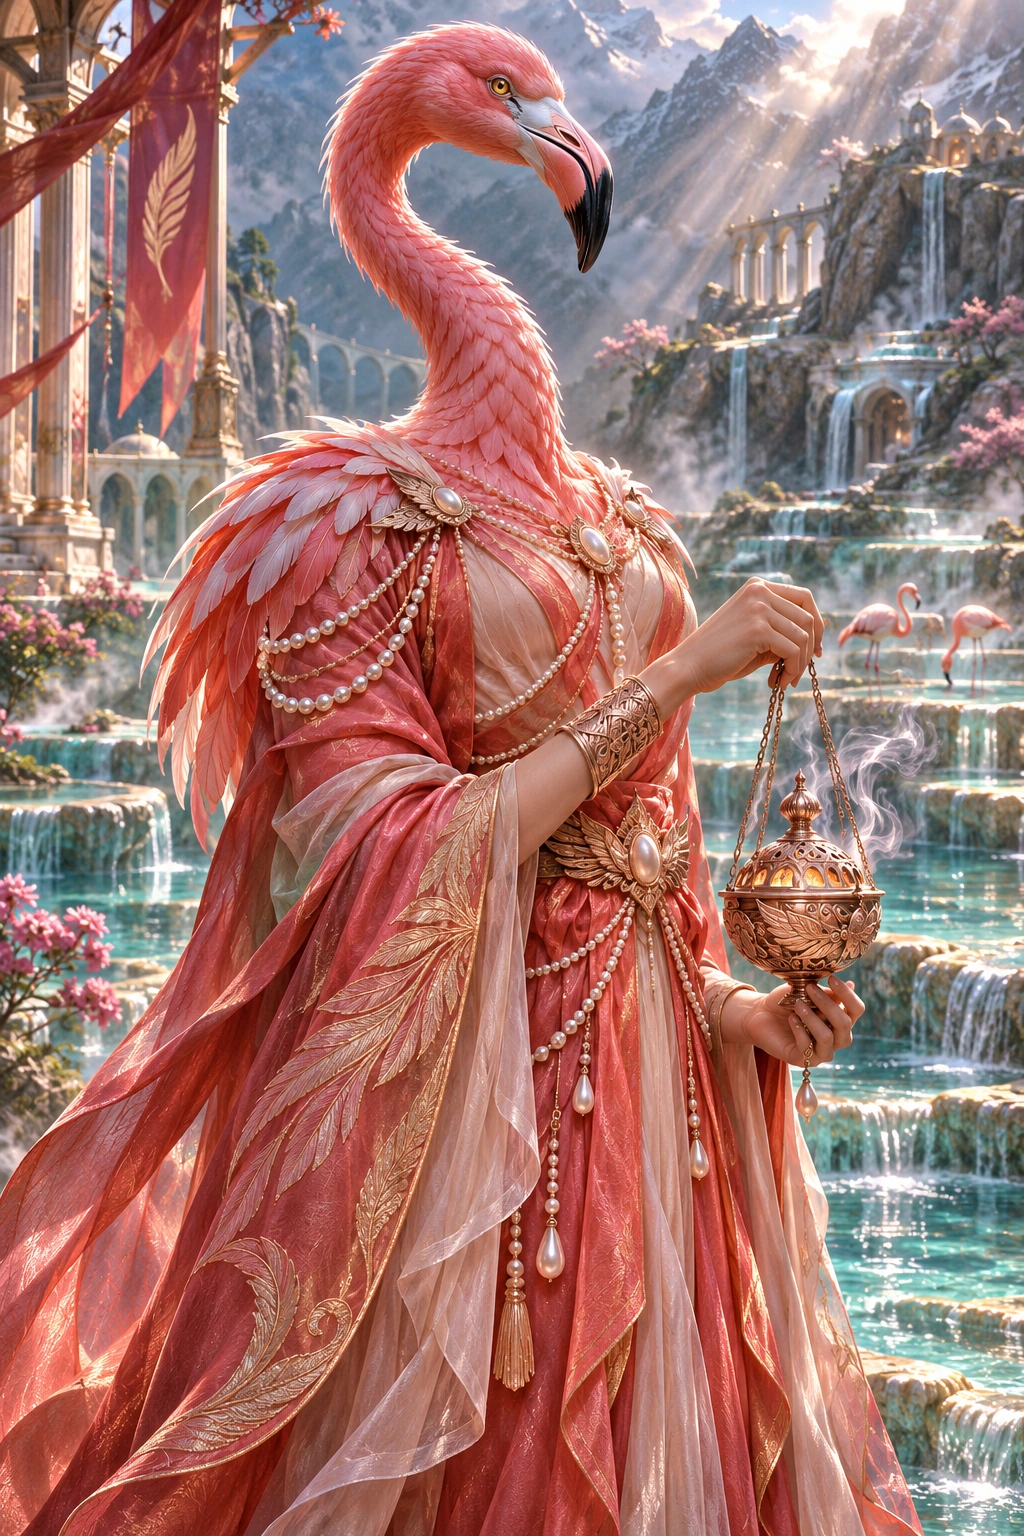
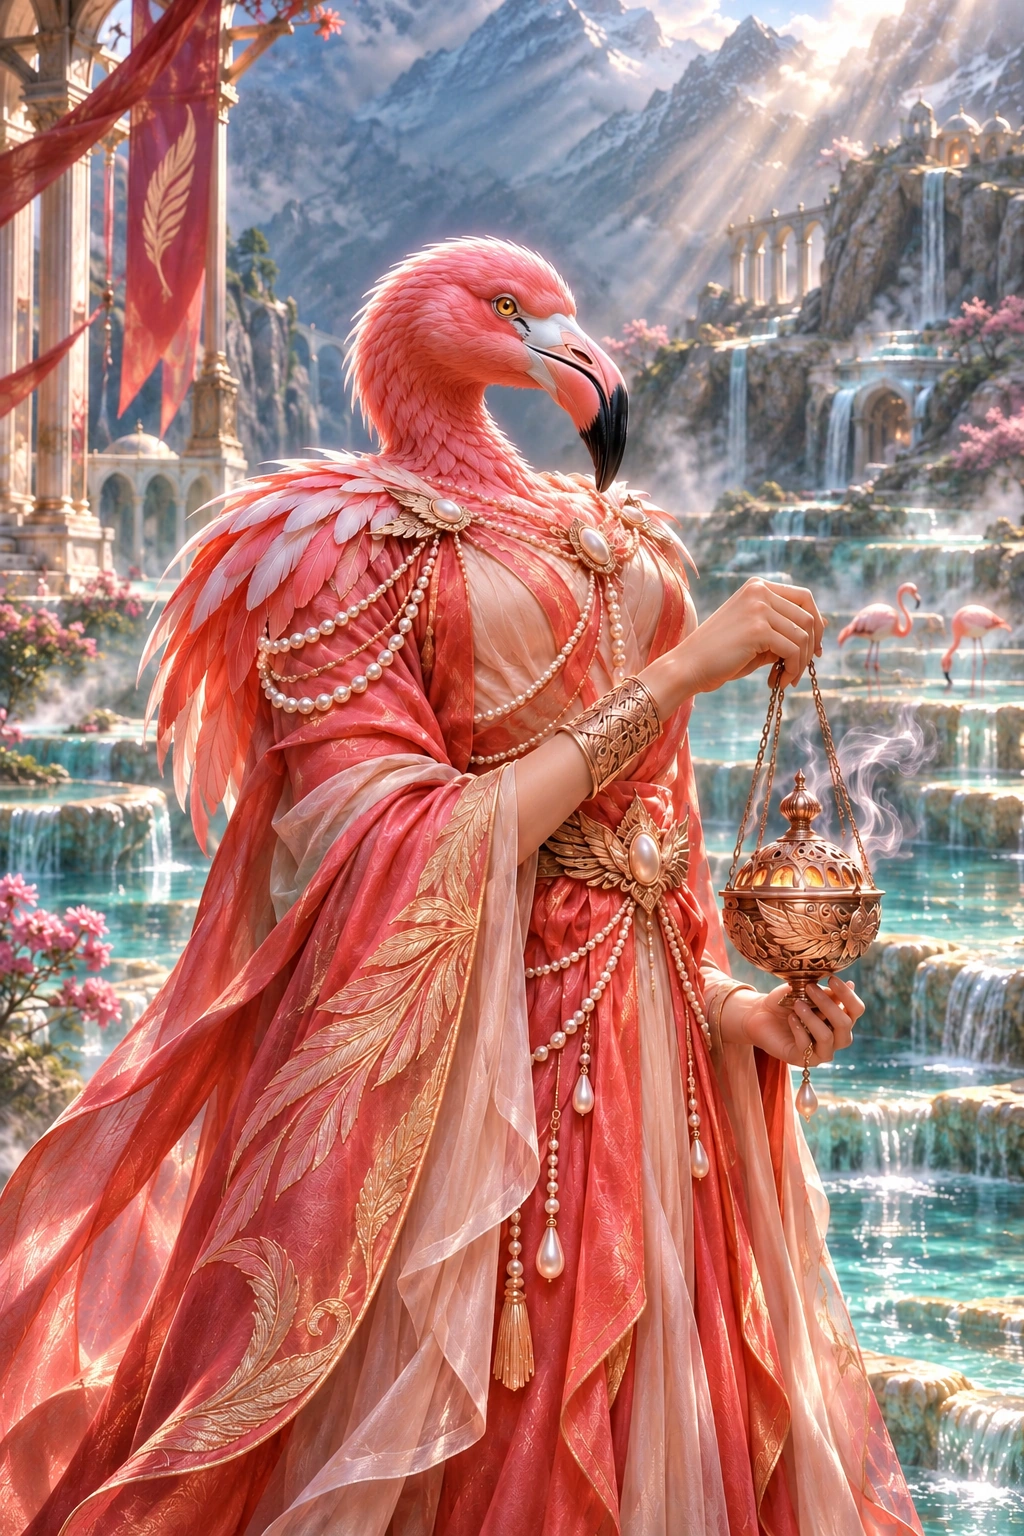
Revise eight Aerie Court portraits and redesign guardian beasts

diff --git a/docs/AERIE_COURT.md b/docs/AERIE_COURT.md
@@ -1,6 +1,6 @@
 # Aerie Court — Founding Roster
 
-A mountain civilization of bird-people: humanoid bodies below the shoulders, avian heads and necks above. Bronze featherwork, high palaces and richly colored plumage unite the faction without replacing each species’ identity. The pterosaur and twin-headed guardian are ancient branches of the court. Trivorath, its sole Mythical, combines eagle, lion and serpent heads on one humanoid body.
+A mountain civilization of bird-people: most have humanoid bodies below the shoulders, with compact avian heads and necks above. Bronze featherwork, high palaces and richly colored plumage unite the faction without replacing each species’ identity. The pterosaur and twin-headed guardian are ancient branches of the court. Duovrax is a two-headed owl/raven monster-beast. Trivorath, its sole Mythical, combines an eagle head, a horned monster-beast head and a serpent head on one massive quadrupedal body.
 
 Eighteen additions bring the roster from 215 to 233. The rarity spread is 2 Common, 7 Rare, 8 Legendary and 1 Mythical, alongside 10 Attack, 4 Defense and 4 Support champions. All five elements and Very Fast, Fast, Average and Slow speeds are represented. Existing 215 champion/source records, portraits and summon rarity odds are unchanged.
 
@@ -24,20 +24,24 @@ Two matching members gain **4% DEF and 5% extra matching-rune mana**. Three or m
 | Avaroc, Sunspire Regent | eagle | Legendary | Yellow | Attack | 10 tiles | Sovereign Talon |
 | Macalisse, Scarlet Herald | scarlet macaw | Legendary | Red | Support | 8 tiles | Banner of Many Voices |
 | Pterovar, Ashcrest Ancestor | pterodactyl | Legendary | Red | Attack | 12 tiles | Cinderwing Descent |
-| Duovrax, Divided Vigil | two-headed owl and raven | Legendary | Purple | Defense | 12 tiles | Dusk and Dawn Watch |
+| Duovrax, Divided Vigil | two-headed owl and raven monster-beast | Legendary | Purple | Defense | 12 tiles | Dusk and Dawn Watch |
 | Tyssara, Moonvault Oracle | barn owl | Legendary | Blue | Support | 10 tiles | Lantern of Quiet Skies |
 | Rudavain, Torrent Lancer | ruddy kingfisher | Legendary | Red | Attack | 8 tiles | Waterfall Impale |
 | Bucorath, Canopy Castellan | great hornbill | Legendary | Green | Defense | 10 tiles | Casque of the Citadel |
 | Sagivra, Quillblade Marshal | secretarybird | Legendary | Yellow | Attack | 8 tiles | Seven-Quill Cut |
-| Trivorath, Threefold Sovereign | three-headed eagle lion serpent hybrid | Mythical | Purple | Attack | 12 tiles | Concord of Fang and Feather |
+| Trivorath, Threefold Sovereign | three-headed eagle / horned monster-beast / serpent | Mythical | Purple | Attack | 12 tiles | Concord of Fang and Feather |
 
 ## Balance and artwork
 
 Base ATK, DEF and HP sit within 3% of the existing median for each rarity/type, with speed and coverage controlling Special budgets. Fast attacks trade utility or damage for access; area attacks are Slow; Common kits are simpler. Trivorath has Slow area damage, Attack Down and Poison, plus Poison immunity. This is a bounded initial balance pass, not a measured PvP win-rate claim.
 
-Each of the eighteen portraits was generated individually at native **1024 × 1536** and encoded as quality-95 WebP without cropping or upscaling. All were visually reviewed, including the separate heads on Duovrax and Trivorath. Existing art is untouched.
+Each of the eighteen portraits was generated individually at native **1024 × 1536** and encoded as quality-95 WebP without cropping or upscaling. All were visually reviewed, including the separate heads on Duovrax and Trivorath. The 215 pre-faction portraits are untouched.
 
 The shared Collection/Codex/Teams filter derives factions from the roster; Aerie Court therefore appears automatically. Its emblem is registered, and the Guide and team composition displays use the shared faction rules.
+
+## Artwork revisions
+
+Tivren and Dovessa have replacement portraits with compact, integrated avian heads. Duovrax and Trivorath have monster-beast bodies; Trivorath’s former lion head is a horned monstrous beast. Rosavelle, Ardoven, Sagivra and Macalisse retain their established costumes, props and settings with shorter necks. All eight revisions retain native high-definition dimensions and quality-95 WebP encoding. Champion kits, stats, rarities and faction bonuses are unchanged.
 
 ## Validation
 

diff --git a/docs/CHARACTER_BALANCE_REVIEW.md b/docs/CHARACTER_BALANCE_REVIEW.md
@@ -124,12 +124,12 @@ Veldtborn’s 30% and Astral’s 25% matching mana substantially alter repeat sp
 | Avaroc, Sunspire Regent | Aerie Court / Yellow | Legendary / Attack / Average | Founding eagle attack; role/rarity median stats with a bounded existing-effect kit. |
 | Macalisse, Scarlet Herald | Aerie Court / Red | Legendary / Support / Fast | Founding scarlet macaw support; role/rarity median stats with a bounded existing-effect kit. |
 | Pterovar, Ashcrest Ancestor | Aerie Court / Red | Legendary / Attack / Slow | Founding pterodactyl attack; role/rarity median stats with a bounded existing-effect kit. |
-| Duovrax, Divided Vigil | Aerie Court / Purple | Legendary / Defense / Slow | Founding two-headed owl and raven defense; role/rarity median stats with a bounded existing-effect kit. |
+| Duovrax, Divided Vigil | Aerie Court / Purple | Legendary / Defense / Slow | Founding two-headed owl and raven monster-beast defense; role/rarity median stats with a bounded existing-effect kit. |
 | Tyssara, Moonvault Oracle | Aerie Court / Blue | Legendary / Support / Average | Founding barn owl support; role/rarity median stats with a bounded existing-effect kit. |
 | Rudavain, Torrent Lancer | Aerie Court / Red | Legendary / Attack / Fast | Founding ruddy kingfisher attack; role/rarity median stats with a bounded existing-effect kit. |
 | Bucorath, Canopy Castellan | Aerie Court / Green | Legendary / Defense / Average | Founding great hornbill defense; role/rarity median stats with a bounded existing-effect kit. |
 | Sagivra, Quillblade Marshal | Aerie Court / Yellow | Legendary / Attack / Fast | Founding secretarybird attack; role/rarity median stats with a bounded existing-effect kit. |
-| Trivorath, Threefold Sovereign | Aerie Court / Purple | Mythical / Attack / Slow | Founding three-headed eagle lion serpent hybrid attack; role/rarity median stats with a bounded existing-effect kit. |
+| Trivorath, Threefold Sovereign | Aerie Court / Purple | Mythical / Attack / Slow | Founding three-headed eagle horned monster-beast serpent hybrid attack; role/rarity median stats with a bounded existing-effect kit. |
 
 Fifteen targeted additions are complete: **7 Legendaries, 8 Rares; 8 ATK, 4 DEF, 3 SUP**. No existing kits or portraits changed in this expansion. The [189-character review](history/CHARACTER-BALANCE-189.md) retains the original suggestions.
 
@@ -153,7 +153,7 @@ Each Special tier was cast through the real resolver against one, three and four
 
 These are controlled cast measurements and structural analysis, **not measured matchup win rates or proof that a character always wins**. They do not include board luck, enemy timing, overheal in live fights or every possible five-character composition. Counters, revival, immunities, Cleanse, Dispel and mana control are situational strengths. Recommendations need encounter tests before implementation.
 
[2 lines of base64/hex data omitted]
 
 ## Every Character
 
